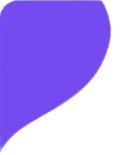
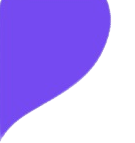
Quiz Socure

Changed region(s): [[0.0, 0.0, 0.8296, 0.8951], [0.0, 0.951, 0.0296, 0.979]]

diff --git a/lib/Screens/Quizz/QuizQuestion.dart b/lib/Screens/Quizz/QuizQuestion.dart
@@ -2,12 +2,18 @@ import 'package:education_spot/Widgets/myAppBar.dart';
 import 'package:flutter/cupertino.dart';
 import 'package:flutter/material.dart';
 
+import '../../Widgets/mySpacer.dart';
+import '../../constants/images.dart';
+import '../../constants/style.dart';
+
 class QuizQuestion extends StatefulWidget {
   final Map data;
   final List all_data;
   final int questioNo;
+  final int scoure;
 
-  const QuizQuestion({Key? key, required this.data, required this.questioNo, required this.all_data}) : super(key: key);
+  const QuizQuestion({Key? key, required this.data, required this.questioNo, required this.all_data, required this.scoure})
+      : super(key: key);
 
   @override
   State<QuizQuestion> createState() => _QuizQuestionState();
@@ -15,9 +21,11 @@ class QuizQuestion extends StatefulWidget {
 
 class _QuizQuestionState extends State<QuizQuestion> {
   TextEditingController d_controlle = TextEditingController(text: "0");
+  TextEditingController s_controlle = TextEditingController(text: "0");
 
   @override
   Widget build(BuildContext context) {
+    var scoure = widget.scoure;
     var vwidth = MediaQuery.of(context).size.width;
     return SafeArea(
         // appBar: AppBar(
@@ -27,7 +35,43 @@ class _QuizQuestionState extends State<QuizQuestion> {
         child: Scaffold(
       body: Column(
         children: [
-          const myAppBar(titel: "Question No: 1", linewidth: 180),
+          // // // // // // // // // // // Top Bar // // // // // // // // //
+          Row(
+            mainAxisAlignment: MainAxisAlignment.spaceBetween,
+            children: [
+              Stack(
+                children: [
+                  Image.asset(curve),
+                  Positioned(
+                      top:25,
+                      left: 25,
+                      child: Text(
+                        "${widget.scoure}/10",
+                        style: const TextStyle(color: Colors.white, fontWeight: FontWeight.bold, fontSize: 25),
+                      ))
+                ],
+              ),
+              mySpacer(0.0, 0.0),
+              Column(
+                children: [
+                  Text(
+                    "Question ${widget.questioNo + 1}",
+                    style: const TextStyle(fontSize: 25, fontWeight: FontWeight.bold),
+                  ),
+                  mySpacer(10.0, 0.0),
+                  Container(
+                    width: 180,
+                    height: 2,
+                    color: primaryColor,
+                  )
+                ],
+              ),
+              mySpacer(0.0, 0.0),
+              mySpacer(0.0, 0.0),
+            ],
+          ),
+          // // // // // // // // // // // Question // // // // // // // // //
+
           Padding(
             padding: const EdgeInsets.all(12.0),
             child: Column(
@@ -52,24 +96,28 @@ class _QuizQuestionState extends State<QuizQuestion> {
                   option: "A: ${widget.data["A"]}",
                   index: 1,
                   d_controlle: d_controlle,
+                  s_controlle: s_controlle,
                   C_index: widget.data["correctIndex"],
                 ),
                 OptionCard(
                   option: "B: ${widget.data["B"]}",
                   index: 2,
                   d_controlle: d_controlle,
+                  s_controlle: s_controlle,
                   C_index: widget.data["correctIndex"],
                 ),
                 OptionCard(
                   option: "C: ${widget.data["C"]}",
                   index: 3,
                   d_controlle: d_controlle,
+                  s_controlle: s_controlle,
                   C_index: widget.data["correctIndex"],
                 ),
                 OptionCard(
                   option: "D: ${widget.data["D"]}",
                   index: 4,
                   d_controlle: d_controlle,
+                  s_controlle: s_controlle,
                   C_index: widget.data["correctIndex"],
                 ),
                 const SizedBox(
@@ -77,13 +125,19 @@ class _QuizQuestionState extends State<QuizQuestion> {
                 ),
                 ElevatedButton(
                     onPressed: () {
+                      if (s_controlle.text == '1') {
+                        setState(() {
+                          scoure++;
+                        });
+                      }
                       Navigator.push(
                         context,
                         MaterialPageRoute(
                             builder: (context) => QuizQuestion(
-                                  data: widget.all_data[widget.questioNo+1],
-                                  questioNo: widget.questioNo+1,
+                                  data: widget.all_data[widget.questioNo + 1],
+                                  questioNo: widget.questioNo + 1,
                                   all_data: widget.all_data,
+                                  scoure: scoure,
                                 )),
                       );
                     },
@@ -104,11 +158,13 @@ class _QuizQuestionState extends State<QuizQuestion> {
 
 class OptionCard extends StatefulWidget {
   final TextEditingController d_controlle;
+  final TextEditingController s_controlle;
   final String option;
   final int index;
   final int C_index;
 
-  const OptionCard({Key? key, required this.option, required this.index, required this.d_controlle, required this.C_index})
+  const OptionCard(
+      {Key? key, required this.option, required this.index, required this.d_controlle, required this.C_index, required this.s_controlle})
       : super(key: key);
 
   @override
@@ -126,6 +182,7 @@ class _OptionCardState extends State<OptionCard> {
           if (widget.d_controlle.text == "0") {
             widget.d_controlle.text = "1";
             if (widget.C_index == widget.index) {
+              widget.s_controlle.text = "1";
               setState(() {
                 color = Colors.greenAccent.shade100;
               });

diff --git a/lib/Screens/Quizz/Data.dart b/lib/Screens/Quizz/Data.dart
@@ -14,6 +14,51 @@ var MCAT = [
     "C": "Formicidae",
     "D": "Rhopalocera",
     "correctIndex": 2,
+  },  {
+    "question": "1What is the scientific name of a butterfly?",
+    "A": "Apis",
+    "B": "Coleoptera",
+    "C": "Formicidae",
+    "D": "Rhopalocera",
+    "correctIndex": 1,
+  },
+  {
+    "question": "2What is the scientific name of a butterfly?",
+    "A": "Apis",
+    "B": "Coleoptera",
+    "C": "Formicidae",
+    "D": "Rhopalocera",
+    "correctIndex": 2,
+  },  {
+    "question": "1What is the scientific name of a butterfly?",
+    "A": "Apis",
+    "B": "Coleoptera",
+    "C": "Formicidae",
+    "D": "Rhopalocera",
+    "correctIndex": 1,
+  },
+  {
+    "question": "2What is the scientific name of a butterfly?",
+    "A": "Apis",
+    "B": "Coleoptera",
+    "C": "Formicidae",
+    "D": "Rhopalocera",
+    "correctIndex": 2,
+  },  {
+    "question": "1What is the scientific name of a butterfly?",
+    "A": "Apis",
+    "B": "Coleoptera",
+    "C": "Formicidae",
+    "D": "Rhopalocera",
+    "correctIndex": 1,
+  },
+  {
+    "question": "2What is the scientific name of a butterfly?",
+    "A": "Apis",
+    "B": "Coleoptera",
+    "C": "Formicidae",
+    "D": "Rhopalocera",
+    "correctIndex": 2,
   },
 ];
 

diff --git a/lib/Screens/Quizz/QuizStart.dart b/lib/Screens/Quizz/QuizStart.dart
@@ -58,7 +58,10 @@ class _QuizStartState extends State<QuizStart> {
                         context,
                         MaterialPageRoute(
                             builder: (context) => QuizQuestion(
-                                  data: data, questioNo: widget.questioNo, all_data: widget.data,
+                                  data: data,
+                                  questioNo: widget.questioNo,
+                                  all_data: widget.data,
+                                  scoure: 0,
                                 )),
                       );
                     },
